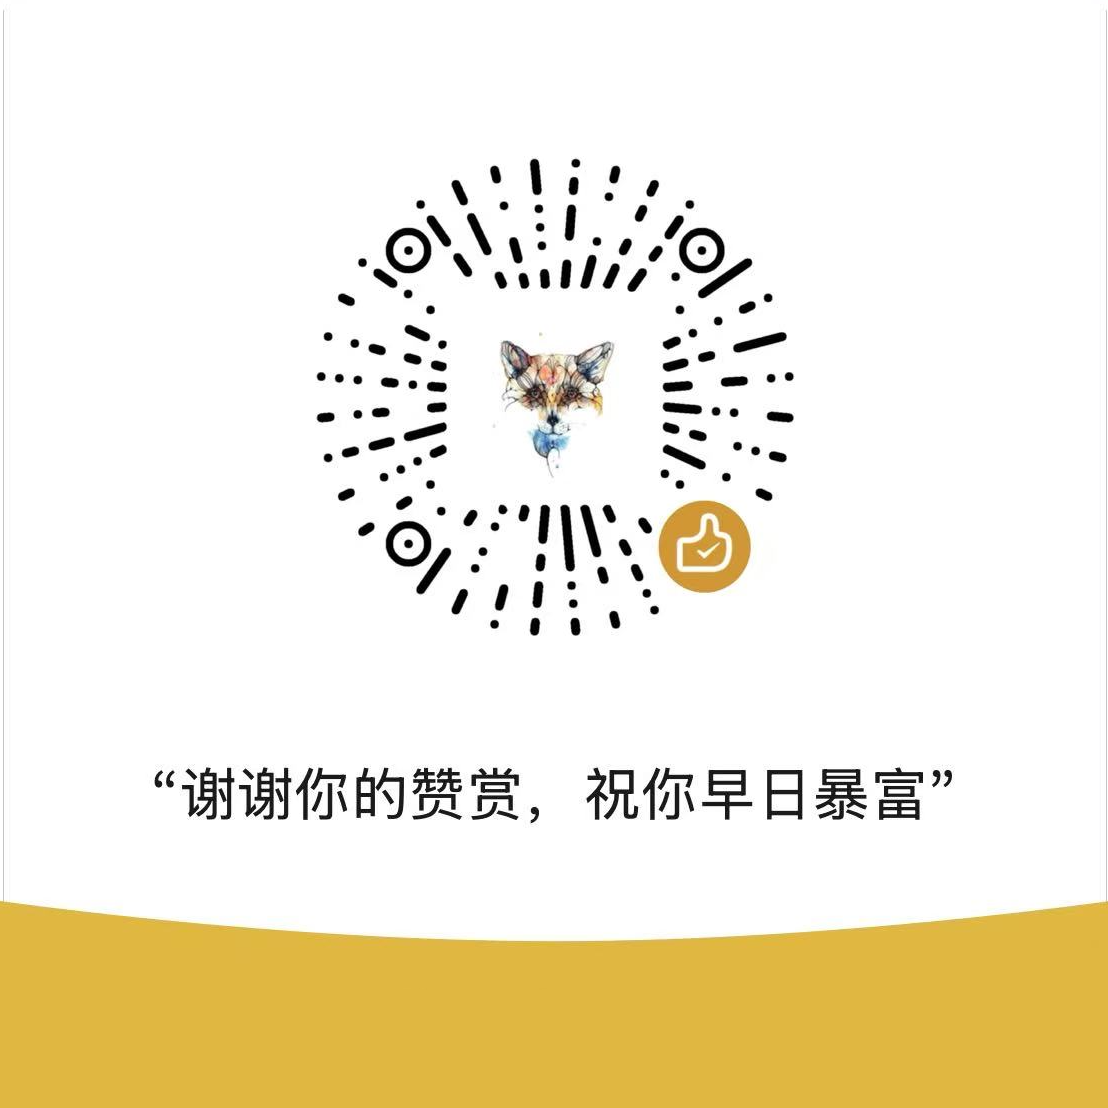
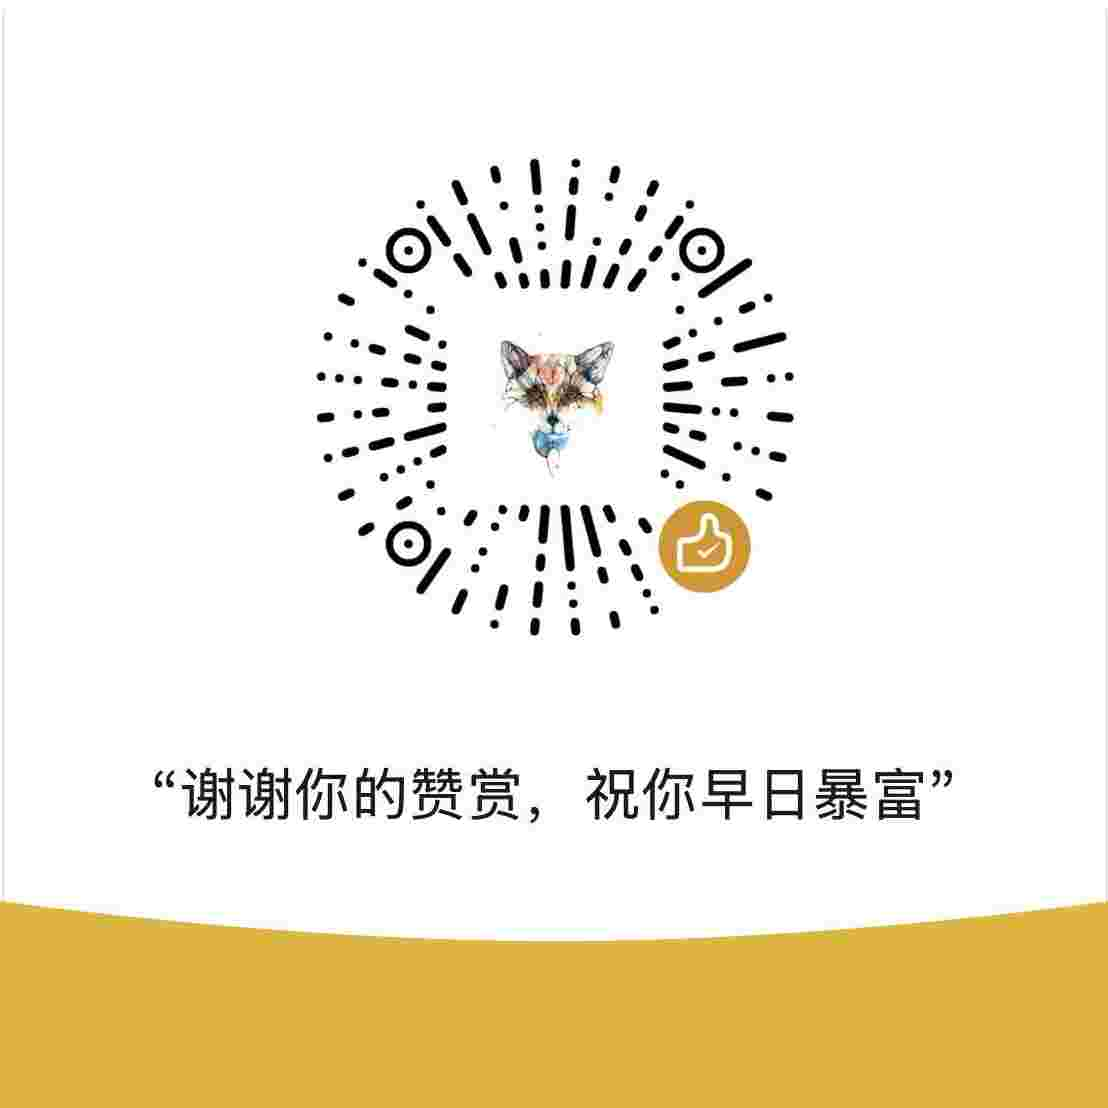
update pic

diff --git a/src/views/AboutView.vue b/src/views/AboutView.vue
@@ -89,9 +89,9 @@
               <div class="flex justify-center">
                 <div
                   class="bg-gradient-to-br from-gray-50 to-gray-100 rounded-2xl p-5 border border-gray-200 transition-transform hover:scale-105 cursor-zoom-in"
-                  @click="openViewer('/wx_open.png', '微信公众号')"
+                  @click="openViewer('/wx_open.jpg', '微信公众号')"
                 >
-                  <img src="/wx_open.png" alt="微信公众号" class="w-48 h-auto rounded-lg" />
+                  <img src="/wx_open.jpg" alt="微信公众号" class="w-48 h-auto rounded-lg" />
                 </div>
               </div>
             </section>
